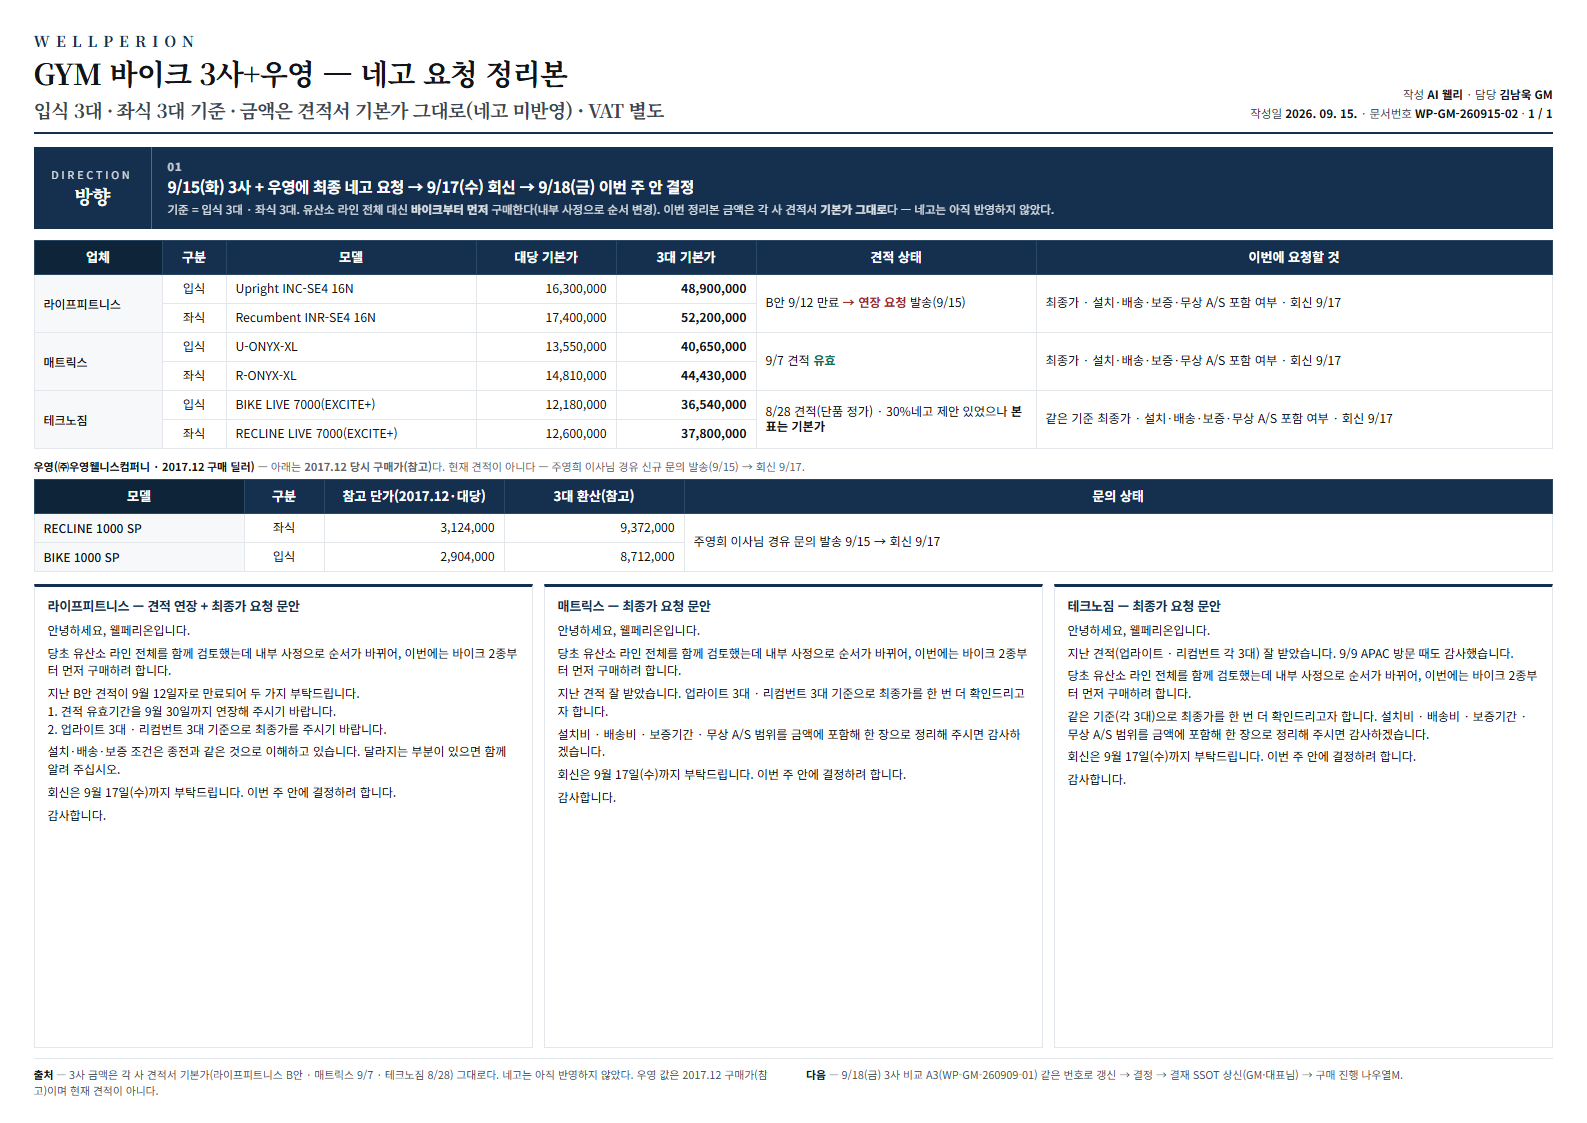
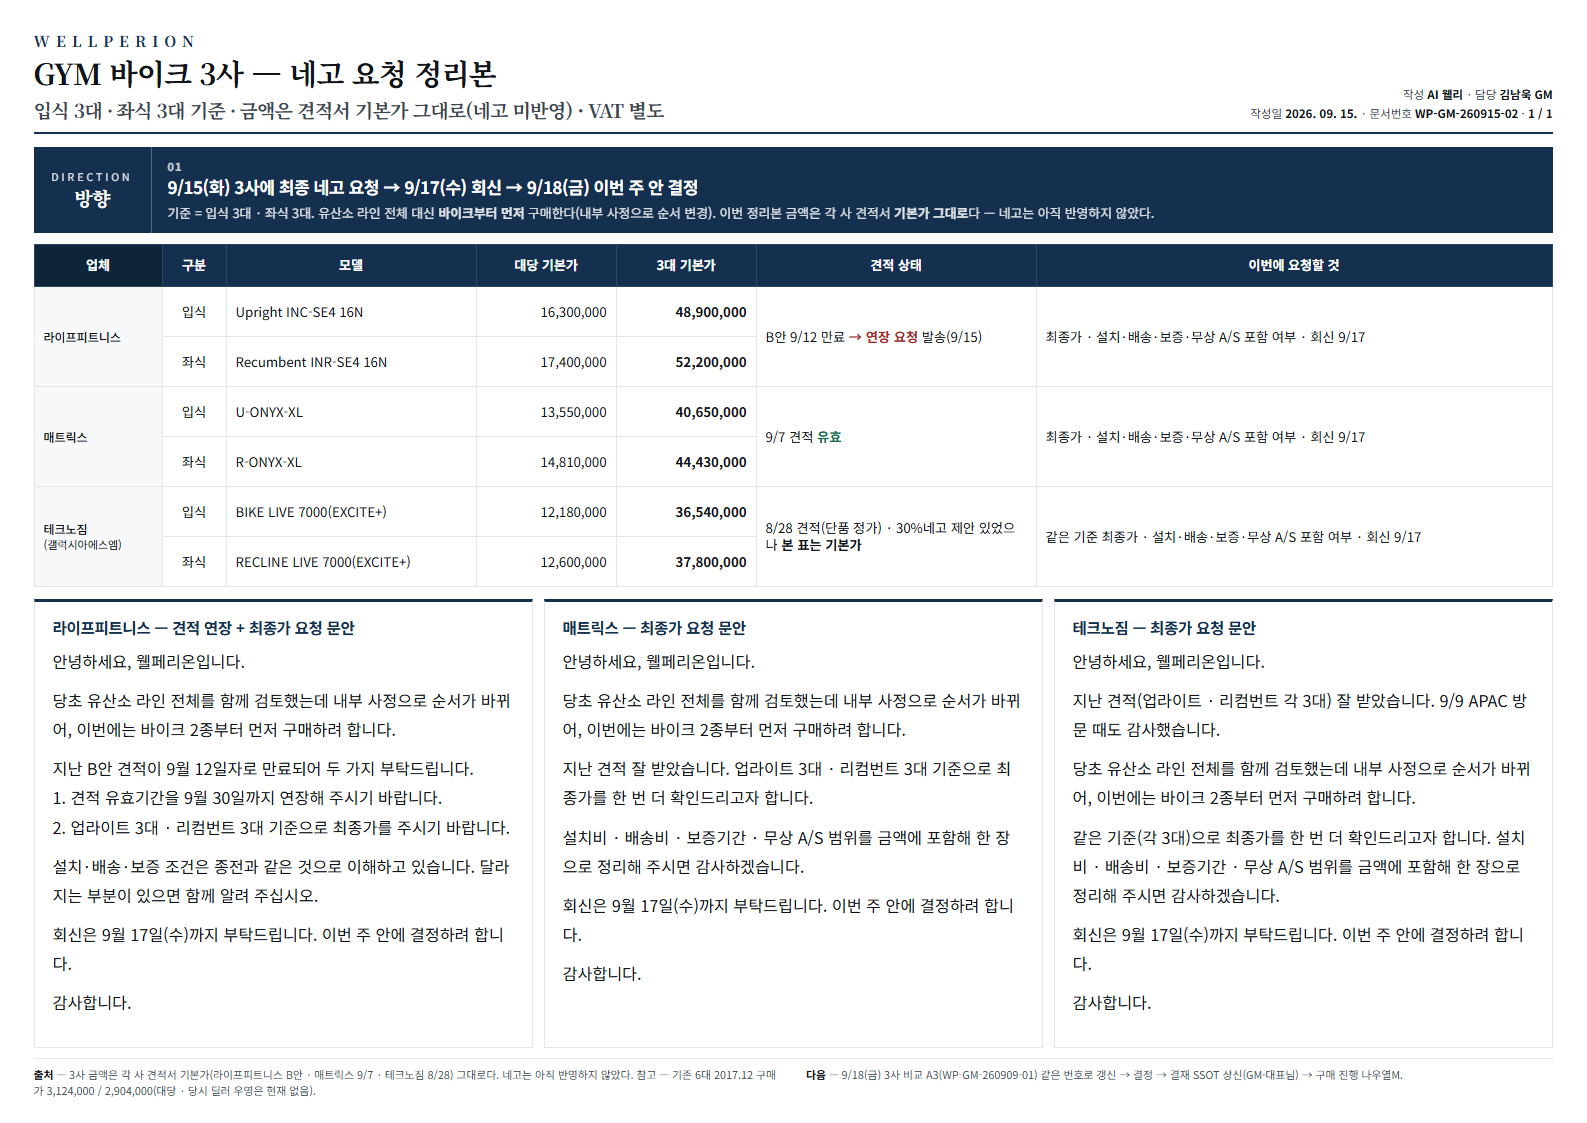
[웰리] 바이크 A3 2장 — 우영 제거·테크노짐 창구 갤럭시아에스엠 표기 (GM 09-15 정정)

diff --git a/3. 웰페리온 가이드/coo/chairman/260915_바이크_3사_네고요청_정리본_A3.html b/3. 웰페리온 가이드/coo/chairman/260915_바이크_3사_네고요청_정리본_A3.html
@@ -2,7 +2,7 @@
 <html lang="ko">
 <head>
 <meta charset="UTF-8">
-<title>GYM 바이크 3사+우영 네고 요청 정리본 — 웰페리온 A3</title>
+<title>GYM 바이크 3사 네고 요청 정리본 — 웰페리온 A3</title>
 <link rel="preconnect" href="https://fonts.googleapis.com">
 <link rel="preconnect" href="https://fonts.gstatic.com" crossorigin>
 <link href="https://fonts.googleapis.com/css2?family=Noto+Sans+KR:wght@400;500;700;900&family=Noto+Serif+KR:wght@600;700&display=swap" rel="stylesheet">
@@ -57,8 +57,8 @@
   .ask .it{ flex:1; padding:11px 16px; border-right:1px solid rgba(255,255,255,.2); }
   .ask .it:last-child{ border-right:0; }
   .ask .n{ font-size:11px; font-weight:700; opacity:.75; letter-spacing:1px; }
-  .ask .q{ font-size:15.5px; font-weight:700; line-height:1.35; margin-top:2px; letter-spacing:-.4px; }
-  .ask .d{ font-size:11.5px; line-height:1.5; opacity:.86; margin-top:4px; }
+  .ask .q{ font-size:17px; font-weight:700; line-height:1.35; margin-top:2px; letter-spacing:-.4px; }
+  .ask .d{ font-size:12.8px; line-height:1.5; opacity:.86; margin-top:4px; }
 
   /* 경고 밴드 */
   .alert{ margin-top:7px; background:#FBEDED; border:1.5px solid var(--bad); color:var(--bad);
@@ -68,11 +68,11 @@
   /* ③ 비교표 */
   .tblwrap{ margin-top:11px; }
   table{ width:100%; border-collapse:collapse; table-layout:fixed; }
-  th,td{ border:1px solid var(--line); padding:0 9px; font-size:12.2px; line-height:1.3; }
-  thead th{ height:34px; background:var(--navy); color:#fff; font-weight:700; font-size:13px; border-color:#2A4763; }
+  th,td{ border:1px solid var(--line); padding:0 9px; font-size:13.2px; line-height:1.3; }
+  thead th{ height:42px; background:var(--navy); color:#fff; font-weight:700; font-size:13px; border-color:#2A4763; }
   thead th.k{ width:186px; background:#0E2439; }
   thead th .sub{ display:block; font-size:10.5px; font-weight:400; opacity:.8; margin-top:1px; }
-  tbody td{ height:29px; }
+  tbody td{ height:50px; }
   td.k{ background:#F6F8FA; font-weight:500; font-size:12px; }
   tr.grp td{ height:22px; background:var(--navy-bg); color:var(--navy); font-weight:700;
     font-size:11.5px; letter-spacing:2.5px; }
@@ -88,9 +88,9 @@
 
   /* ④ 3분할 */
   .cols{ margin-top:12px; display:flex; gap:11px; flex:1; }
-  .box{ flex:1; border:1px solid var(--line); border-top:3px solid var(--navy); padding:9px 13px 8px; overflow:hidden; }
-  .box h3{ font-size:13px; font-weight:700; color:var(--navy); letter-spacing:-.3px; margin-bottom:6px; }
-  .box p{ font-size:12px; line-height:1.48; margin-bottom:5px; }
+  .box{ flex:1; border:1px solid var(--line); border-top:3px solid var(--navy); padding:14px 18px 12px; overflow:hidden; }
+  .box h3{ font-size:15.5px; font-weight:700; color:var(--navy); letter-spacing:-.3px; margin-bottom:9px; }
+  .box p{ font-size:16.2px; line-height:1.8; margin-bottom:10px; }
   .box ul{ list-style:none; }
   .box li{ font-size:12px; line-height:1.52; padding-left:15px; position:relative; margin-bottom:4px; }
   .box li::before{ content:'·'; position:absolute; left:5px; font-weight:700; }
@@ -109,7 +109,7 @@
 </head>
 <body>
 <div class="bar">
-  <b>GYM 바이크 3사+우영 — 네고 요청 정리본 (A3 1장)</b>
+  <b>GYM 바이크 3사 — 네고 요청 정리본 (A3 1장)</b>
   <span class="note">인쇄: A3 · 가로 · 배경 그래픽 켜기</span>
   <span class="sp"></span>
   <button onclick="window.print()">A3 인쇄</button>
@@ -119,7 +119,7 @@
   <div class="head">
     <div>
       <div class="brand">WELLPERION</div>
-      <div class="title">GYM 바이크 3사+우영 — 네고 요청 정리본<br><span style="font-size:19px;color:#3C464F">입식 3대 · 좌식 3대 기준 · 금액은 견적서 기본가 그대로(네고 미반영) · VAT 별도</span></div>
+      <div class="title">GYM 바이크 3사 — 네고 요청 정리본<br><span style="font-size:19px;color:#3C464F">입식 3대 · 좌식 3대 기준 · 금액은 견적서 기본가 그대로(네고 미반영) · VAT 별도</span></div>
     </div>
     <div class="meta">
       작성 <b>AI 웰리</b> · 담당 <b>김남욱 GM</b><br>
@@ -132,7 +132,7 @@
     <div class="items">
       <div class="it">
         <div class="n">01</div>
-        <div><div class="q">9/15(화) 3사 + 우영에 최종 네고 요청 → 9/17(수) 회신 → 9/18(금) 이번 주 안 결정</div>
+        <div><div class="q">9/15(화) 3사에 최종 네고 요청 → 9/17(수) 회신 → 9/18(금) 이번 주 안 결정</div>
         <div class="d">기준 = 입식 3대 · 좌식 3대. 유산소 라인 전체 대신 <b>바이크부터 먼저</b> 구매한다(내부 사정으로 순서 변경). 이번 정리본 금액은 각 사 견적서 <b>기본가 그대로</b>다 — 네고는 아직 반영하지 않았다.</div></div>
       </div>
     </div>
@@ -181,7 +181,7 @@
           <td class="num strong">44,430,000</td>
         </tr>
         <tr>
-          <td class="k" rowspan="2">테크노짐</td>
+          <td class="k" rowspan="2">테크노짐<br><span style="font-weight:400;font-size:11px">(갤럭시아에스엠)</span></td>
           <td class="ctr">입식</td>
           <td>BIKE LIVE 7000(EXCITE+)</td>
           <td class="num">12,180,000</td>
@@ -199,33 +199,6 @@
     </table>
   </div>
 
-  <div style="margin-top:9px; font-size:11px; color:#5C666F">
-    <b style="color:var(--ink)">우영(㈜우영웰니스컴퍼니 · 2017.12 구매 딜러)</b> — 아래는 <b>2017.12 당시 구매가(참고)</b>다. 현재 견적이 아니다 — 주영희 이사님 경유 신규 문의 발송(9/15) → 회신 9/17.
-  </div>
-  <table style="margin-top:5px">
-    <thead><tr>
-      <th class="k" style="width:210px">모델</th>
-      <th style="width:80px">구분</th>
-      <th style="width:180px">참고 단가(2017.12·대당)</th>
-      <th style="width:180px">3대 환산(참고)</th>
-      <th>문의 상태</th>
-    </tr></thead>
-    <tbody>
-      <tr>
-        <td class="k">RECLINE 1000 SP</td>
-        <td class="ctr">좌식</td>
-        <td class="num">3,124,000</td>
-        <td class="num">9,372,000</td>
-        <td rowspan="2">주영희 이사님 경유 문의 발송 9/15 → 회신 9/17</td>
-      </tr>
-      <tr>
-        <td class="k">BIKE 1000 SP</td>
-        <td class="ctr">입식</td>
-        <td class="num">2,904,000</td>
-        <td class="num">8,712,000</td>
-      </tr>
-    </tbody>
-  </table>
 
   <div class="cols">
     <div class="box">
@@ -258,7 +231,7 @@
   </div>
 
   <div class="foot">
-    <div><b>출처</b> — 3사 금액은 각 사 견적서 기본가(라이프피트니스 B안 · 매트릭스 9/7 · 테크노짐 8/28) 그대로다. 네고는 아직 반영하지 않았다. 우영 값은 2017.12 구매가(참고)이며 현재 견적이 아니다.</div>
+    <div><b>출처</b> — 3사 금액은 각 사 견적서 기본가(라이프피트니스 B안 · 매트릭스 9/7 · 테크노짐 8/28) 그대로다. 네고는 아직 반영하지 않았다. 참고 — 기존 6대 2017.12 구매가 3,124,000 / 2,904,000(대당 · 당시 딜러 우영은 현재 없음).</div>
     <div><b>다음</b> — 9/18(금) 3사 비교 A3(WP-GM-260909-01) 같은 번호로 갱신 → 결정 → 결재 SSOT 상신(GM·대표님) → 구매 진행 나우열M.</div>
   </div>
 </div>

diff --git a/3. 웰페리온 가이드/coo/chairman/260909_GYM바이크_3사비교_A3.html b/3. 웰페리온 가이드/coo/chairman/260909_GYM바이크_3사비교_A3.html
@@ -134,7 +134,7 @@
     <div class="lb"><span>DIRECTION</span><strong>방향</strong></div>
     <div class="items">
       <div class="it"><div class="n">01</div><div><div class="q">입식 3대는 <b>테크노짐이 가장 낮다 — 대당 12,180,000원 · 3대 36,540,000원</b>.</div><div class="d">대당으로 보면 라이프피트니스 16,300,000 · 매트릭스 13,550,000 · 테크노짐 12,180,000원(VAT 별도). 테크노짐 금액은 단품 정가라 <b>묶음 네고 여지가 남아 있다.</b></div></div></div>
-      <div class="it"><div class="n">02</div><div><div class="q"><b>9/15(화) 3사 + 우영에 최종 네고를 요청한다</b> — 입식 3 · 좌식 3 같은 기준.</div><div class="d">우영 = 2017 구매 딜러(RECLINE 1000 SP · BIKE 1000 SP 같은 모델 개당가) 추가. <b>9/17(수) 회신 → 9/18(금) 이번 주 안 결정.</b></div></div></div>
+      <div class="it"><div class="n">02</div><div><div class="q"><b>9/15(화) 3사에 최종 네고를 요청한다</b> — 입식 3 · 좌식 3 같은 기준.</div><div class="d"><b>9/17(수) 회신 → 9/18(금) 이번 주 안 결정.</b></div></div></div>
     </div>
   </div>
 
@@ -154,7 +154,7 @@
         <div style="text-align:center; font-size:15px">대당 <b>13,550,000</b> · 3대 <b>40,650,000</b></div>
       </div>
       <div style="flex:1; min-width:0; border:1px solid var(--line); padding:10px 12px 12px; display:flex; flex-direction:column">
-        <div style="font-weight:800; font-size:16px; color:var(--navy)">테크노짐 <span style="font-weight:400; color:var(--dim); font-size:13px">BIKE LIVE 7000 (EXCITE+)</span></div>
+        <div style="font-weight:800; font-size:16px; color:var(--navy)">테크노짐 <span style="font-weight:400; color:var(--dim); font-size:13px">(갤럭시아에스엠) · BIKE LIVE 7000 (EXCITE+)</span></div>
         <div style="flex:1; min-height:0; display:flex; align-items:center; justify-content:center; margin:8px 0">
           <img src="assets/bike/techno_p3_7.png" alt="테크노짐" style="max-width:100%; max-height:300px; object-fit:contain">
         </div>
@@ -181,9 +181,9 @@
   <div class="foot">
     <div><b>출처</b> — 사진과 사양은 3사 사양서 PDF(라이프피트니스 B안 26-09-02 · MATRIX26 260907 · 테크노짐 260828), 금액은 각 사 견적서 그대로다.</div>
     <div><b>정직 표기</b> — 테크노짐 금액은 <b>단품 정가(견적서 기본가 · 30% 네고 미반영)</b>이고 대수는 <b>입식 3 · 좌식 3</b>(GM 확정 2026-09-09)이다. 「미기재」는 사양서에 값이 없다는 뜻으로 지어내지 않았다.</div>
-    <div><b>다음</b> — 9/15(화) 3사+우영 네고 요청 · 9/17(수) 회신 · 9/18(금) 결정. 전체 장비 비교 = 헬스장비 3사 비딩 A3.</div>
+    <div><b>다음</b> — 9/15(화) 3사 네고 요청 · 9/17(수) 회신 · 9/18(금) 결정. 전체 장비 비교 = 헬스장비 3사 비딩 A3.</div>
   </div>
-  <div style="margin-top:5px; font-size:10.8px; line-height:1.5; color:#48525B"><b style="color:var(--ink)">참고</b> — 기존 6대(2017.12 우영 구매 · RECLINE 1000 SP · BIKE 1000 SP) 당시 구매가 3,124,000 / 2,904,000(대당) · 2017-11 중고 시세(스포드림 · 고양 헬스장 정리) 좌식 80만 · 입식 70만/대 · GM 방향 = 중고 판매 대신 활용 방안.</div>
+  <div style="margin-top:5px; font-size:10.8px; line-height:1.5; color:#48525B"><b style="color:var(--ink)">참고</b> — 기존 6대(RECLINE 1000 SP · BIKE 1000 SP) 2017.12 구매(당시 딜러 우영 · 현재 없음) 구매가 3,124,000 / 2,904,000(대당) · 2017-11 중고 시세(스포드림 · 고양 헬스장 정리) 좌식 80만 · 입식 70만/대 · GM 방향 = 중고 판매 대신 활용 방안.</div>
 </div>
 
 <div class="page" id="sheet2">
@@ -202,7 +202,7 @@
     <div class="lb"><span>DIRECTION</span><strong>방향</strong></div>
     <div class="items">
       <div class="it"><div class="n">01</div><div><div class="q">좌식 3대도 <b>테크노짐이 가장 낮다 — 대당 12,600,000원 · 3대 37,800,000원</b>.</div><div class="d">대당으로 보면 라이프피트니스 17,400,000 · 매트릭스 14,810,000 · 테크노짐 12,600,000원(VAT 별도). 최대 사용자 체중은 테크노짐이 <b>220 kg</b> 로 40 kg 높고 등받이 각도까지 조절된다.</div></div></div>
-      <div class="it"><div class="n">02</div><div><div class="q"><b>9/15(화) 3사 + 우영에 최종 네고를 요청한다</b> — 입식 3 · 좌식 3 같은 기준.</div><div class="d">우영 = 2017 구매 딜러(RECLINE 1000 SP · BIKE 1000 SP 같은 모델 개당가) 추가. <b>9/17(수) 회신 → 9/18(금) 이번 주 안 결정.</b></div></div></div>
+      <div class="it"><div class="n">02</div><div><div class="q"><b>9/15(화) 3사에 최종 네고를 요청한다</b> — 입식 3 · 좌식 3 같은 기준.</div><div class="d"><b>9/17(수) 회신 → 9/18(금) 이번 주 안 결정.</b></div></div></div>
     </div>
   </div>
 
@@ -222,7 +222,7 @@
         <div style="text-align:center; font-size:15px">대당 <b>14,810,000</b> · 3대 <b>44,430,000</b></div>
       </div>
       <div style="flex:1; min-width:0; border:1px solid var(--line); padding:10px 12px 12px; display:flex; flex-direction:column">
-        <div style="font-weight:800; font-size:16px; color:var(--navy)">테크노짐 <span style="font-weight:400; color:var(--dim); font-size:13px">RECLINE LIVE 7000 (EXCITE+)</span></div>
+        <div style="font-weight:800; font-size:16px; color:var(--navy)">테크노짐 <span style="font-weight:400; color:var(--dim); font-size:13px">(갤럭시아에스엠) · RECLINE LIVE 7000 (EXCITE+)</span></div>
         <div style="flex:1; min-height:0; display:flex; align-items:center; justify-content:center; margin:8px 0">
           <img src="assets/bike/techno_p4_7.png" alt="테크노짐" style="max-width:100%; max-height:300px; object-fit:contain">
         </div>
@@ -249,7 +249,7 @@
   <div class="foot">
     <div><b>출처</b> — 사진과 사양은 3사 사양서 PDF(라이프피트니스 B안 26-09-02 · MATRIX26 260907 · 테크노짐 260828), 금액은 각 사 견적서 그대로다.</div>
     <div><b>정직 표기</b> — 테크노짐 금액은 <b>단품 정가(견적서 기본가 · 30% 네고 미반영)</b>이고 대수는 <b>입식 3 · 좌식 3</b>(GM 확정 2026-09-09)이다. 「미기재」는 사양서에 값이 없다는 뜻으로 지어내지 않았다.</div>
-    <div><b>다음</b> — 9/15(화) 3사+우영 네고 요청 · 9/17(수) 회신 · 9/18(금) 결정. 전체 장비 비교 = 헬스장비 3사 비딩 A3.</div>
+    <div><b>다음</b> — 9/15(화) 3사 네고 요청 · 9/17(수) 회신 · 9/18(금) 결정. 전체 장비 비교 = 헬스장비 3사 비딩 A3.</div>
   </div>
 </div>
 
